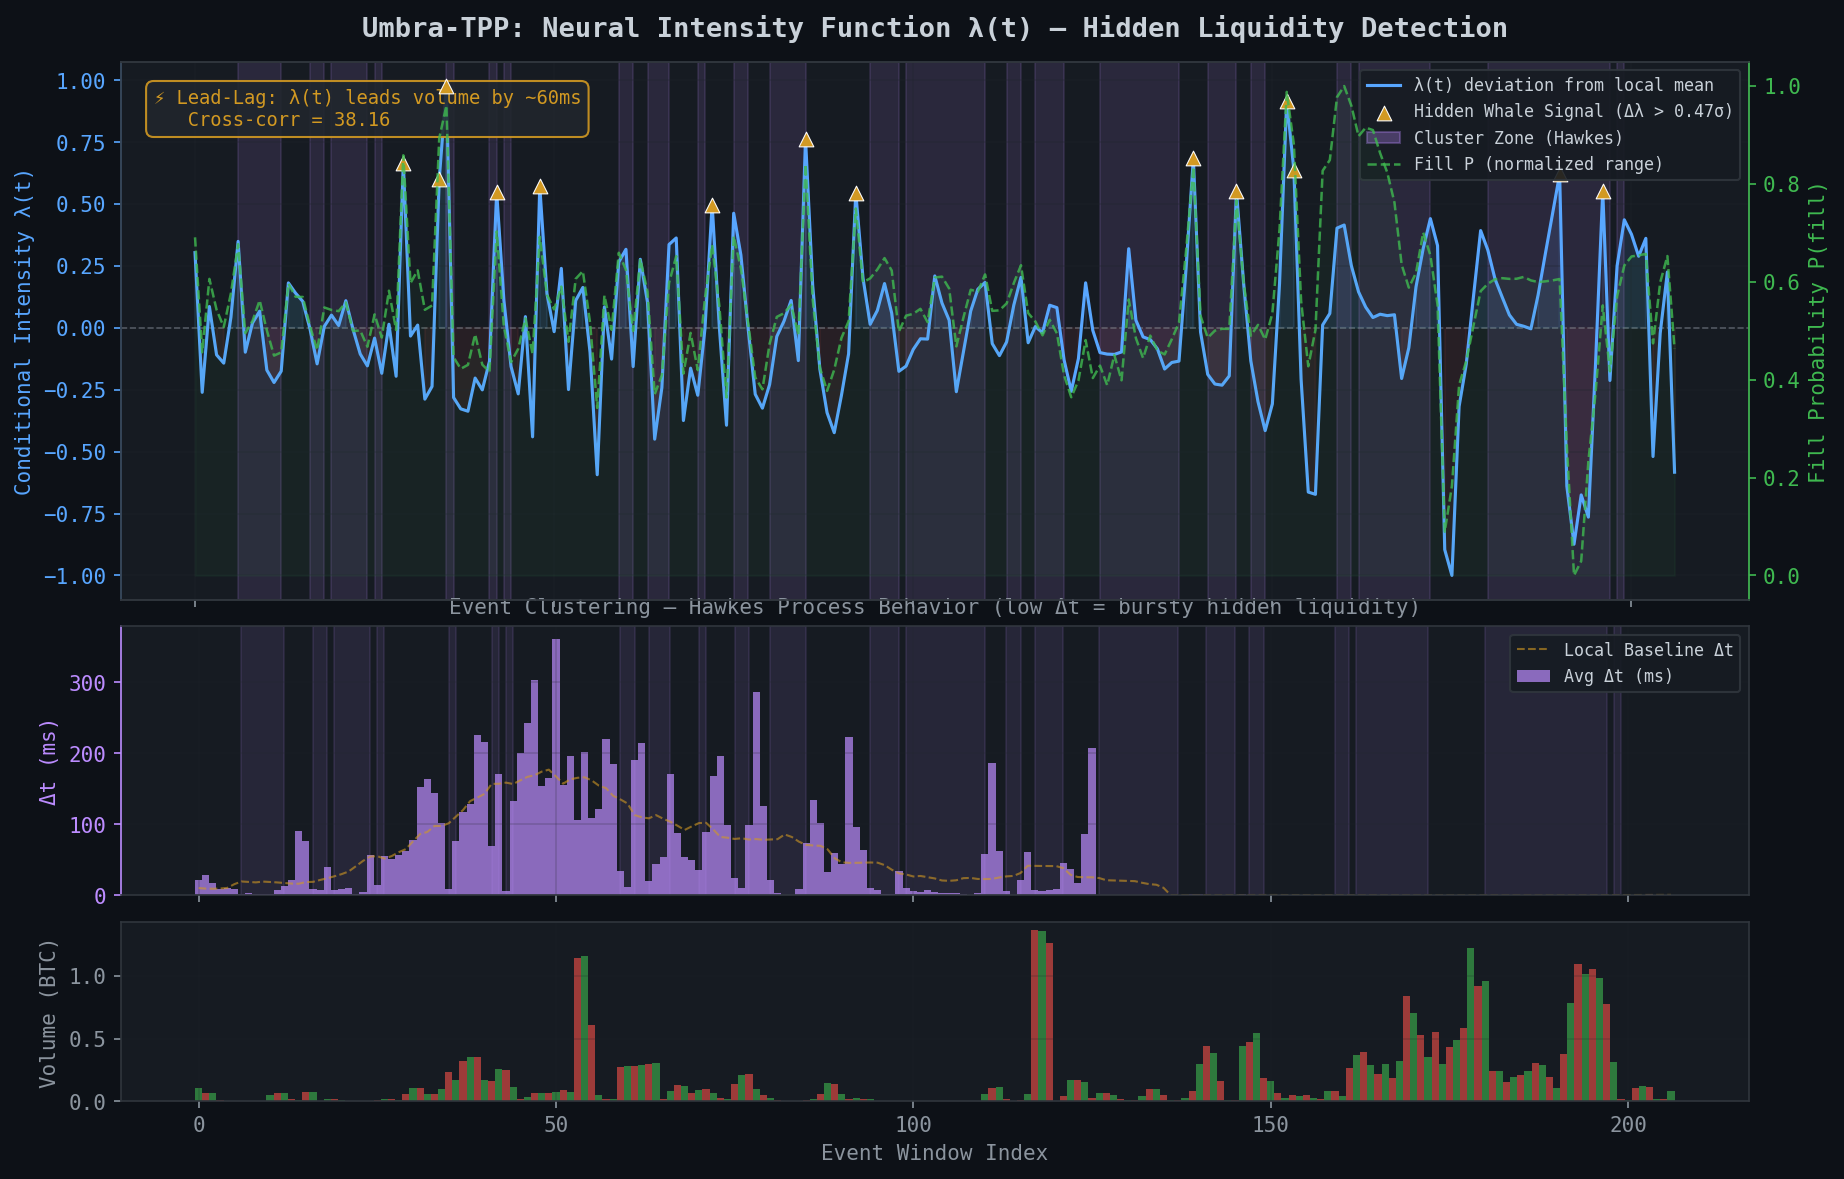
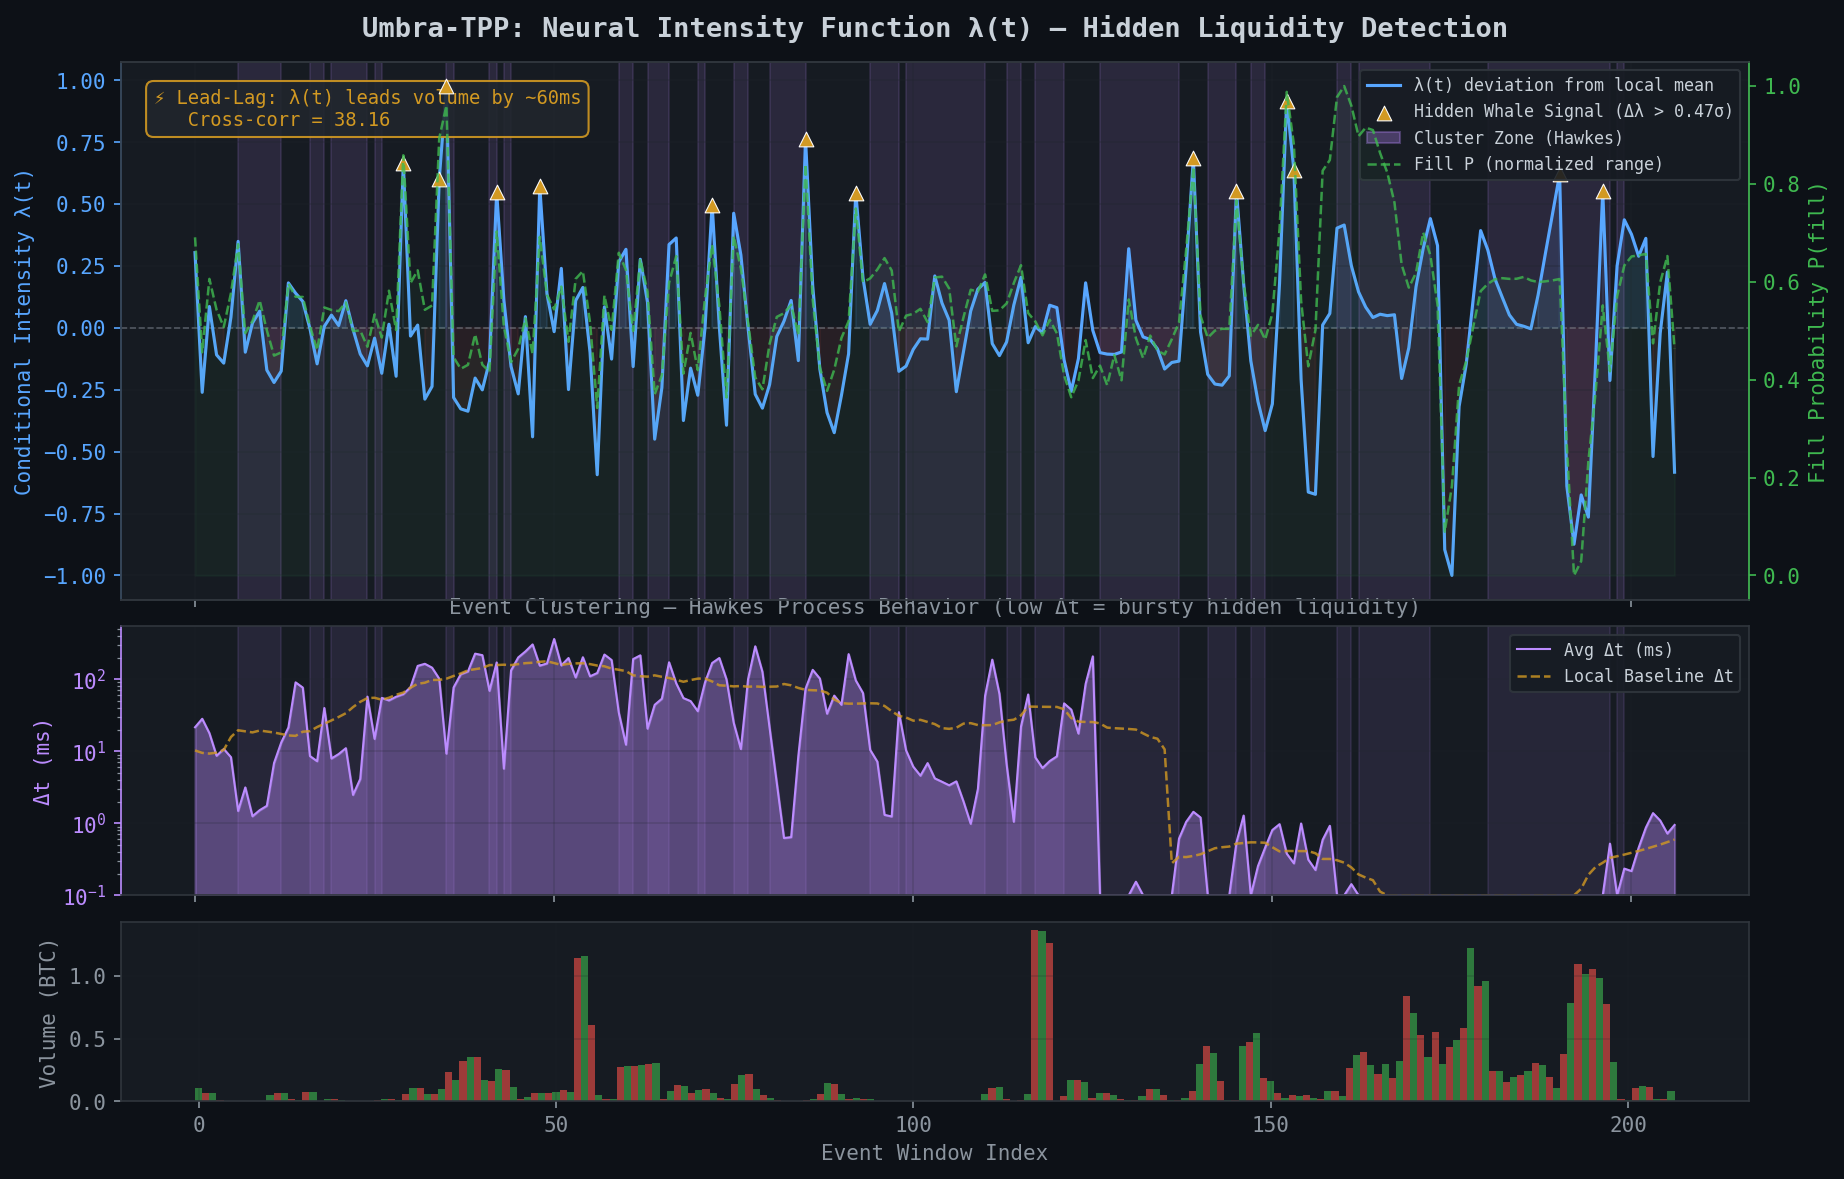
refactor: update burst detection logic and switch inter-arrival plot to log scale with line visualization

diff --git a/scripts/generate_plots.py b/scripts/generate_plots.py
@@ -177,8 +177,9 @@ def generate_intensity_plot(
     ])
     local_baseline = pd.Series(window_ia).rolling(20, min_periods=1, center=True).mean().values
     
-    # A burst is when Δt is less than 50% of the local baseline (and below 1 second)
-    burst_mask = (window_ia < (local_baseline * 0.5)) & (window_ia < 1.0)
+    # A burst is purely relative: when Δt drops to or below 50% of the local baseline.
+    # The <= handles the edge case where both window_ia and local_baseline are exactly 0.
+    burst_mask = (window_ia <= (local_baseline * 0.5)) & (window_ia < 1.0)
     
     if burst_mask.any():
         # Fill burst zones on the intensity panel
@@ -224,11 +225,18 @@ def generate_intensity_plot(
     )
 
     # ── Middle: Inter-arrival clustering (Hawkes behavior) ───────────
-    ax_cluster.bar(x, window_ia * 1000, color=PURPLE, alpha=0.7, width=1.0, label="Avg Δt (ms)")
+    # We use a log scale because Δt varies by orders of magnitude across regimes
+    ya = np.maximum(window_ia * 1000, 0.1)  # clamp at 0.1ms for log scale
+    bl = np.maximum(local_baseline * 1000, 0.1)
+    
+    ax_cluster.plot(x, ya, color=PURPLE, linewidth=1.0, label="Avg Δt (ms)")
+    ax_cluster.fill_between(x, 0.1, ya, color=PURPLE, alpha=0.4)
     
     # Plot the dynamic local baseline
-    ax_cluster.plot(x, local_baseline * 1000, color=ORANGE, linestyle="--", 
-                    linewidth=1.0, alpha=0.6, label="Local Baseline Δt")
+    ax_cluster.plot(x, bl, color=ORANGE, linestyle="--", 
+                    linewidth=1.2, alpha=0.8, label="Local Baseline Δt")
+    ax_cluster.set_yscale("log")
+    ax_cluster.set_ylim(bottom=0.1)
     
     if burst_mask.any():
         # Shade burst zones in the middle panel
